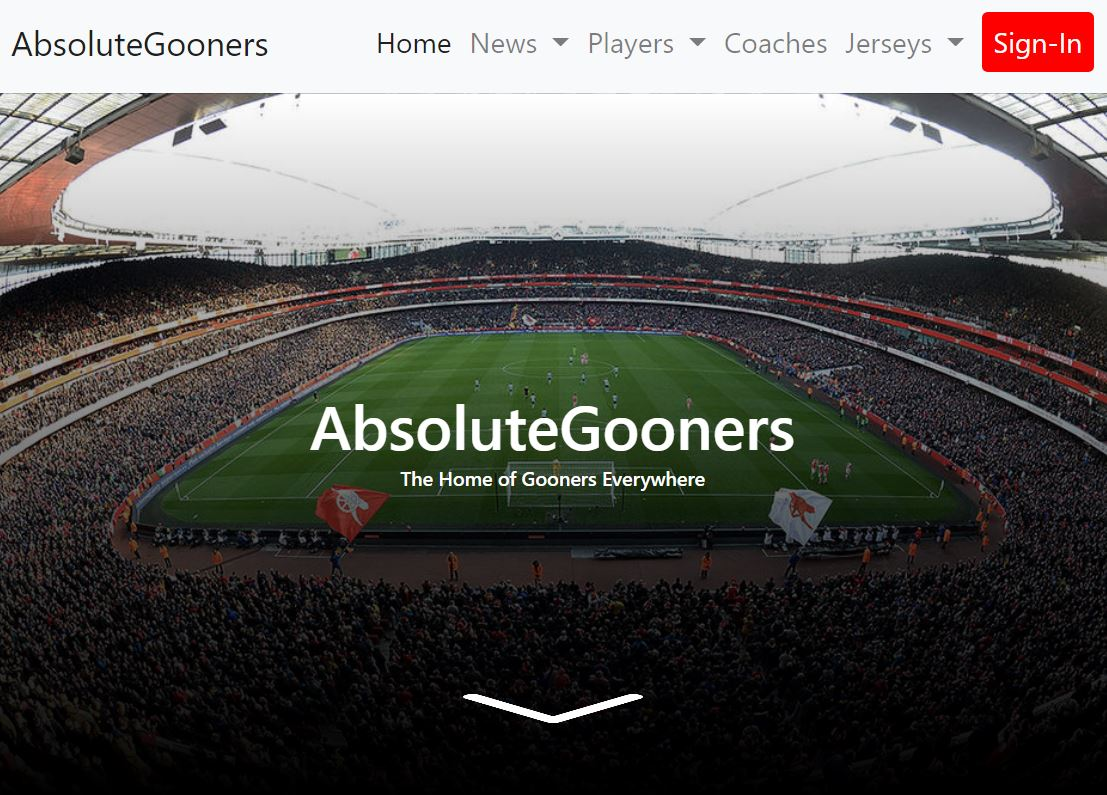
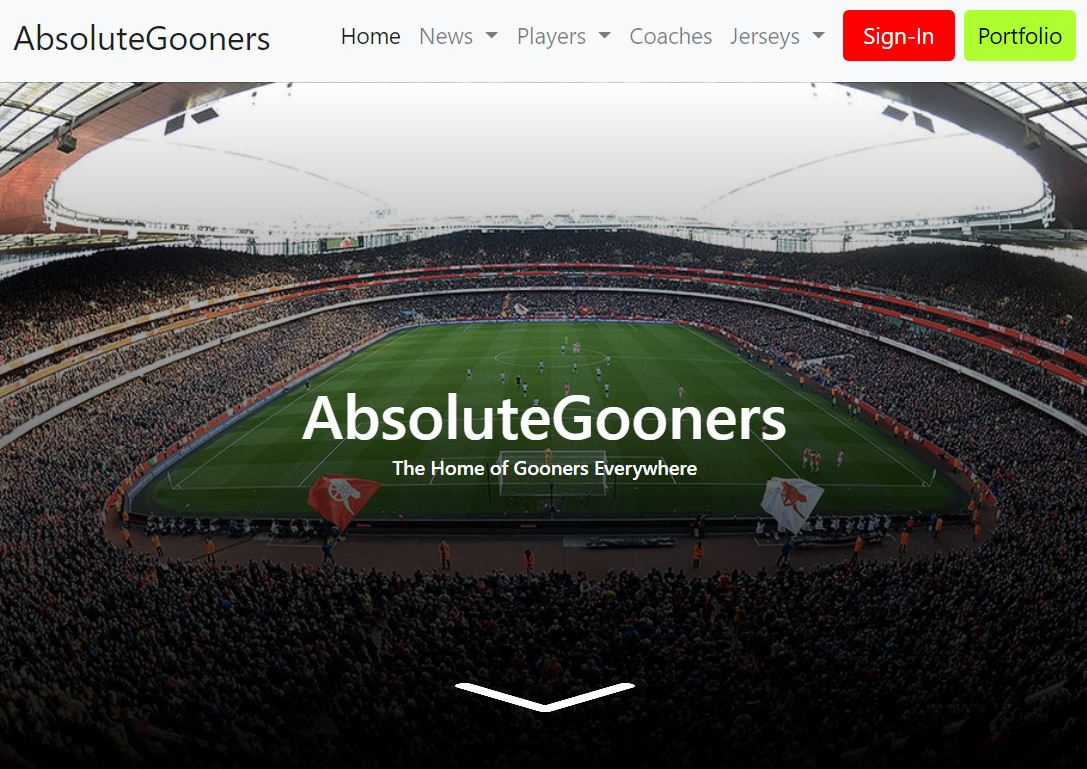
added arsenal fansite to portfolio navigation

diff --git a/html/contact.html b/html/contact.html
@@ -67,6 +67,9 @@
                             <li>
                                 <a href="/html/portfolio/fight_club/landing.html">Boxing Social Media</a>
                             </li>
+                            <li>
+                                <a href="/html/portfolio/arsenal_fansite/index.html">Arsenal Fan Site</a>
+                            </li>
                         </ul>
                     </li>
                     <li class="nav_link active">

diff --git a/index.html b/index.html
@@ -67,6 +67,9 @@
                             <li>
                                 <a href="/html/portfolio/texas_homes/landing.html">Boxing Social Media</a>
                             </li>
+                            <li>
+                                <a href="/html/portfolio/arsenal_fansite/index.html">Arsenal Fan Site</a>
+                            </li>
                         </ul>
                     </li>
                     <li class="nav_link">

diff --git a/html/about/about.html b/html/about/about.html
@@ -67,6 +67,9 @@
                             <li>
                                 <a href="/html/portfolio/fight_club/landing.html">Boxing Social Media</a>
                             </li>
+                            <li>
+                                <a href="/html/portfolio/arsenal_fansite/index.html">Arsenal Fan Site</a>
+                            </li>
                         </ul>
                     </li>
                     <li class="nav_link">

diff --git a/html/about/drawing.html b/html/about/drawing.html
@@ -67,6 +67,9 @@
                             <li>
                                 <a href="/html/portfolio/fight_club/landing.html">Boxing Social Media</a>
                             </li>
+                            <li>
+                                <a href="/html/portfolio/arsenal_fansite/index.html">Arsenal Fan Site</a>
+                            </li>
                         </ul>
                     </li>
                     <li class="nav_link">

diff --git a/html/about/boxing.html b/html/about/boxing.html
@@ -66,6 +66,9 @@
                         <li>
                             <a href="/html/portfolio/fight_club/landing.html">Boxing Social Media</a>
                         </li>
+                        <li>
+                            <a href="/html/portfolio/arsenal_fansite/index.html">Arsenal Fan Site</a>
+                        </li>
                     </ul>
                 </li>
                 <li class="nav_link">

diff --git a/html/about/soccer.html b/html/about/soccer.html
@@ -67,6 +67,9 @@
                         <li>
                             <a href="/html/portfolio/fight_club/landing.html">Boxing Social Media</a>
                         </li>
+                        <li>
+                            <a href="/html/portfolio/arsenal_fansite/index.html">Arsenal Fan Site</a>
+                        </li>
                     </ul>
                 </li>
                 <li class="nav_link">

diff --git a/html/about/story_goals.html b/html/about/story_goals.html
@@ -66,6 +66,9 @@
                         <li>
                             <a href="/html/portfolio/fight_club/landing.html">Boxing Social Media</a>
                         </li>
+                        <li>
+                            <a href="/html/portfolio/arsenal_fansite/index.html">Arsenal Fan Site</a>
+                        </li>
                     </ul>
                 </li>
                 <li class="nav_link">

diff --git a/html/portfolio/portfolio.html b/html/portfolio/portfolio.html
@@ -66,6 +66,9 @@
                         <li>
                             <a href="/html/portfolio/fight_club/landing.html">Boxing Social Media</a>
                         </li>
+                        <li>
+                            <a href="/html/portfolio/arsenal_fansite/index.html">Arsenal Fan Site</a>
+                        </li>
                     </ul>
                 </li>
                 <li class="nav_link">
